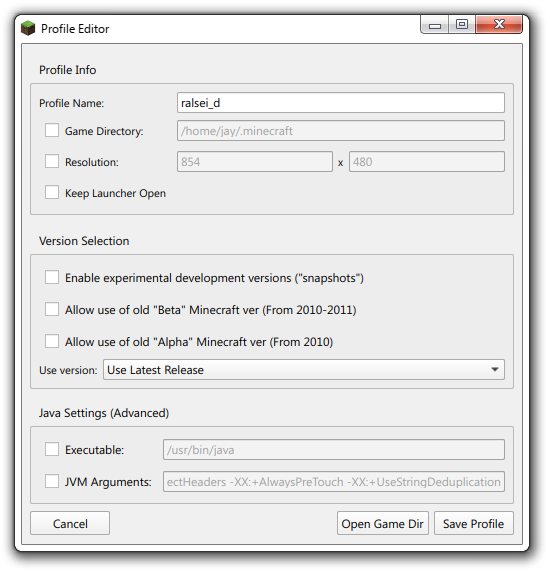
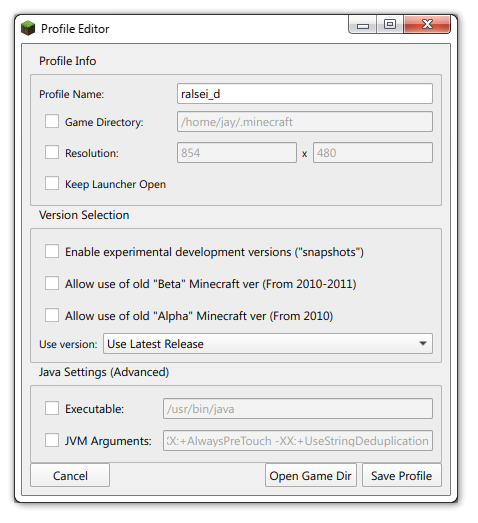
chore: update readme

Changed region(s): [[0.0, 0.0, 0.9958, 1.0]]

diff --git a/README.md b/README.md
@@ -24,17 +24,26 @@ I made this in order to understand the fundamentals of how a Minecraft Launcher 
 
 - Download and extract `lj-launcher-ubuntu-latest.zip`
 - Give the executable permissions, i.e. `chmod a+rx ./lj_launcher`
-- Run the executable `lj_launcher`
-### Windows
-- Latest Microsoft Visual C++ Redistributable
-- Latest JDK (i.e 26)
+- Run the executable `./lj_launcher`
 
-NOTE: The Windows Binary is highly unstable and is prone to crashes and bugs that are hard to diagnose in my current setup. So, there is currently not much official support until circumstances change.
-- Download and extract `lj-launcher-windows-latest.zip`
-- Run the executable `lj_launcher.exe`
+It is recommended that you use the KDE desktop environment. 
+
+[//]: # (### Windows)
+
+[//]: # (- Latest Microsoft Visual C++ Redistributable)
+
+[//]: # (- Latest JDK &#40;i.e 26&#41;)
+
+[//]: # ()
+[//]: # (NOTE: The Windows Binary is highly unstable and is prone to crashes and bugs that are hard to diagnose in my current setup. So, there is currently not much official support until circumstances change.)
+
+[//]: # (- Download and extract `lj-launcher-windows-latest.zip`)
+
+[//]: # (- Run the executable `lj_launcher.exe`)
 
 ## Gallery
-<img src="docs/assets/gallery/login.png" width=50% alt="login">
-<img src="docs/assets/gallery/launcher.png" width=50% alt="launcher">
-<img src="docs/assets/gallery/profileEditor.png" width=50% alt="launcher">
-<img src="docs/assets/gallery/profilePage.png" width=50% alt="launcher">
+<img src="docs/assets/gallery/login.png" width=50% alt="login screen">
+<img src="docs/assets/gallery/launcher.png" width=50% alt="launcher page">
+<img src="docs/assets/gallery/logsPage.png" width=50% alt="logs page">
+<img src="docs/assets/gallery/profilePage.png" width=50% alt="profiles page">
+<img src="docs/assets/gallery/profileEditor.png" width=50% alt="profile editor">
